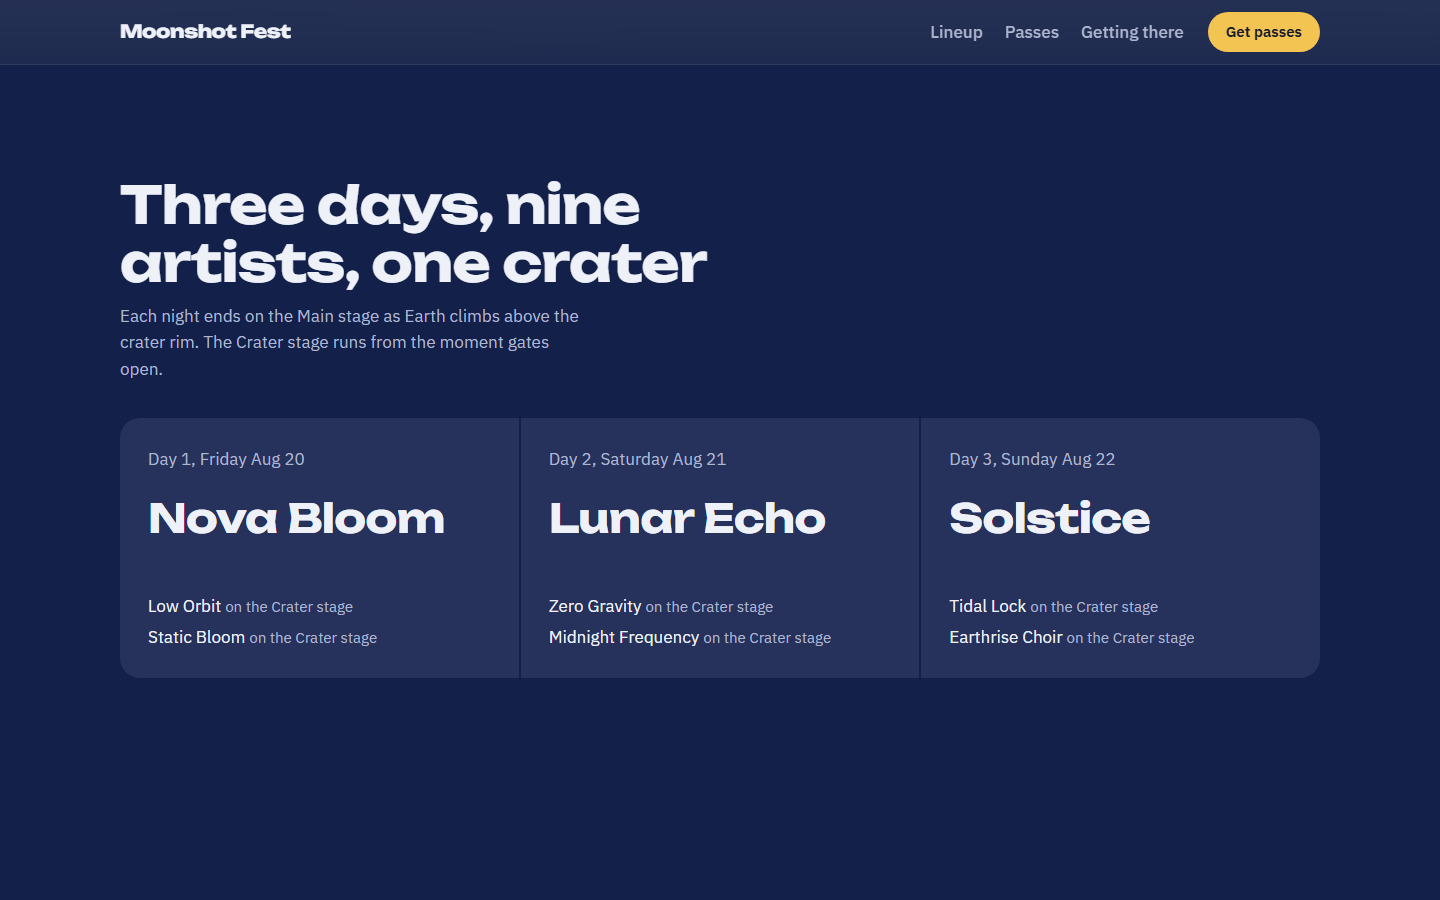
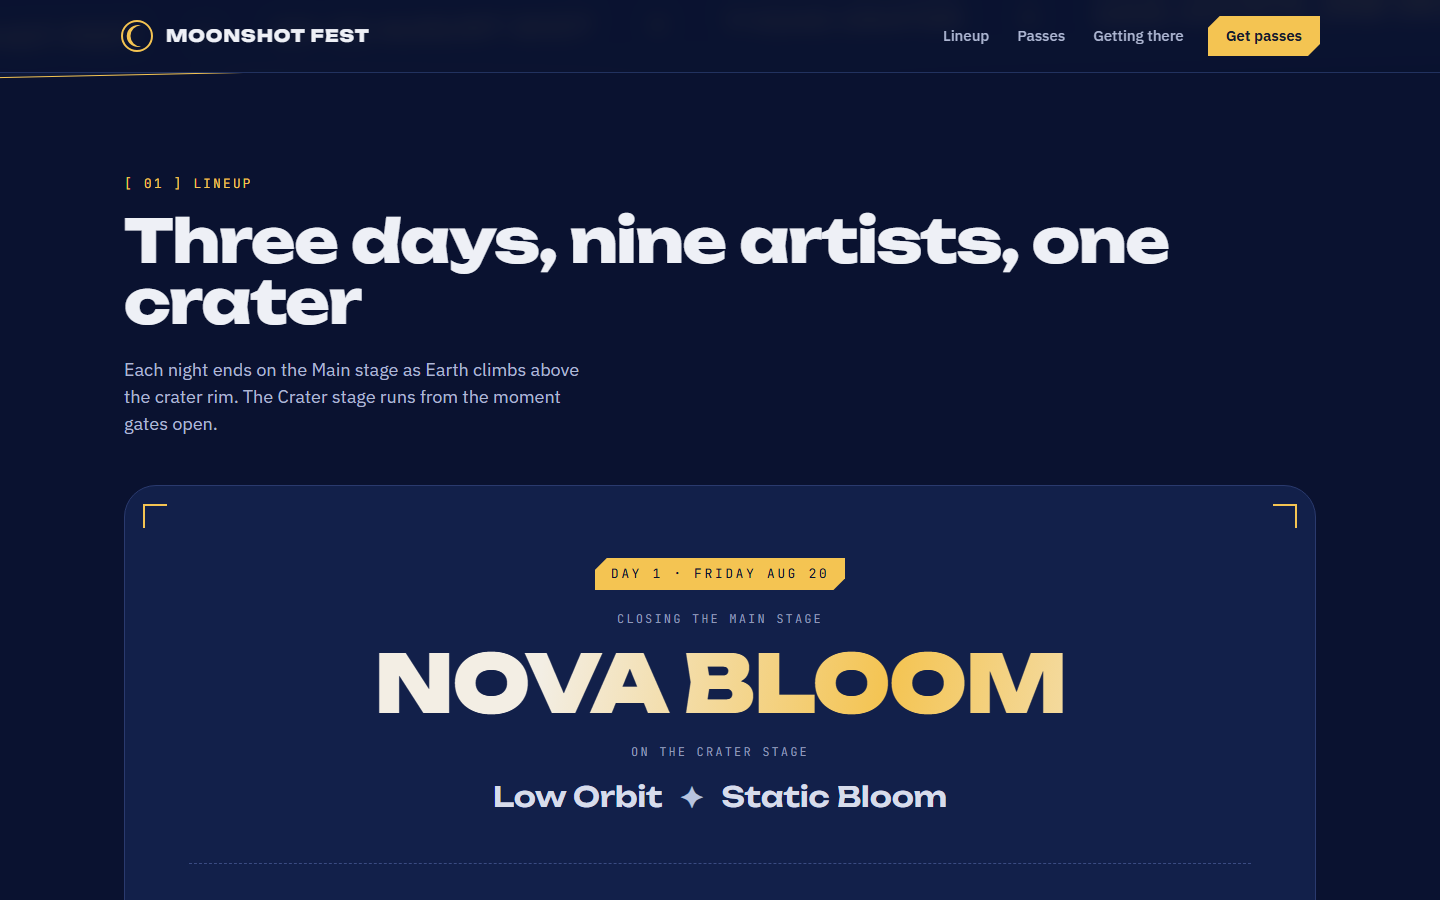
docs: refresh screenshots from the live site with the waiting room and wallet payment
Copilot-Session: 42213c80-8356-4bed-bbd9-495c5a9877e1

diff --git a/README.md b/README.md
@@ -45,7 +45,7 @@ drops, and every pass grouped by day.
 | --- | --- |
 | ![Lineup by day](docs/screenshots/desktop-lineup.png) | ![Limited drops](docs/screenshots/desktop-drops.png) |
 | **Passes grouped by day** | **Reserve** |
-| ![Passes with day and type filters](docs/screenshots/desktop-passes.png) | ![Reserve form](docs/screenshots/desktop-reserve.png) |
+| ![Passes with day and type filters](docs/screenshots/desktop-passes.png) | ![Join the line for a pass](docs/screenshots/desktop-reserve.png) |
 | **Private confirmation** | |
 | ![Confirmation pass](docs/screenshots/desktop-confirmation.png) | |
 
